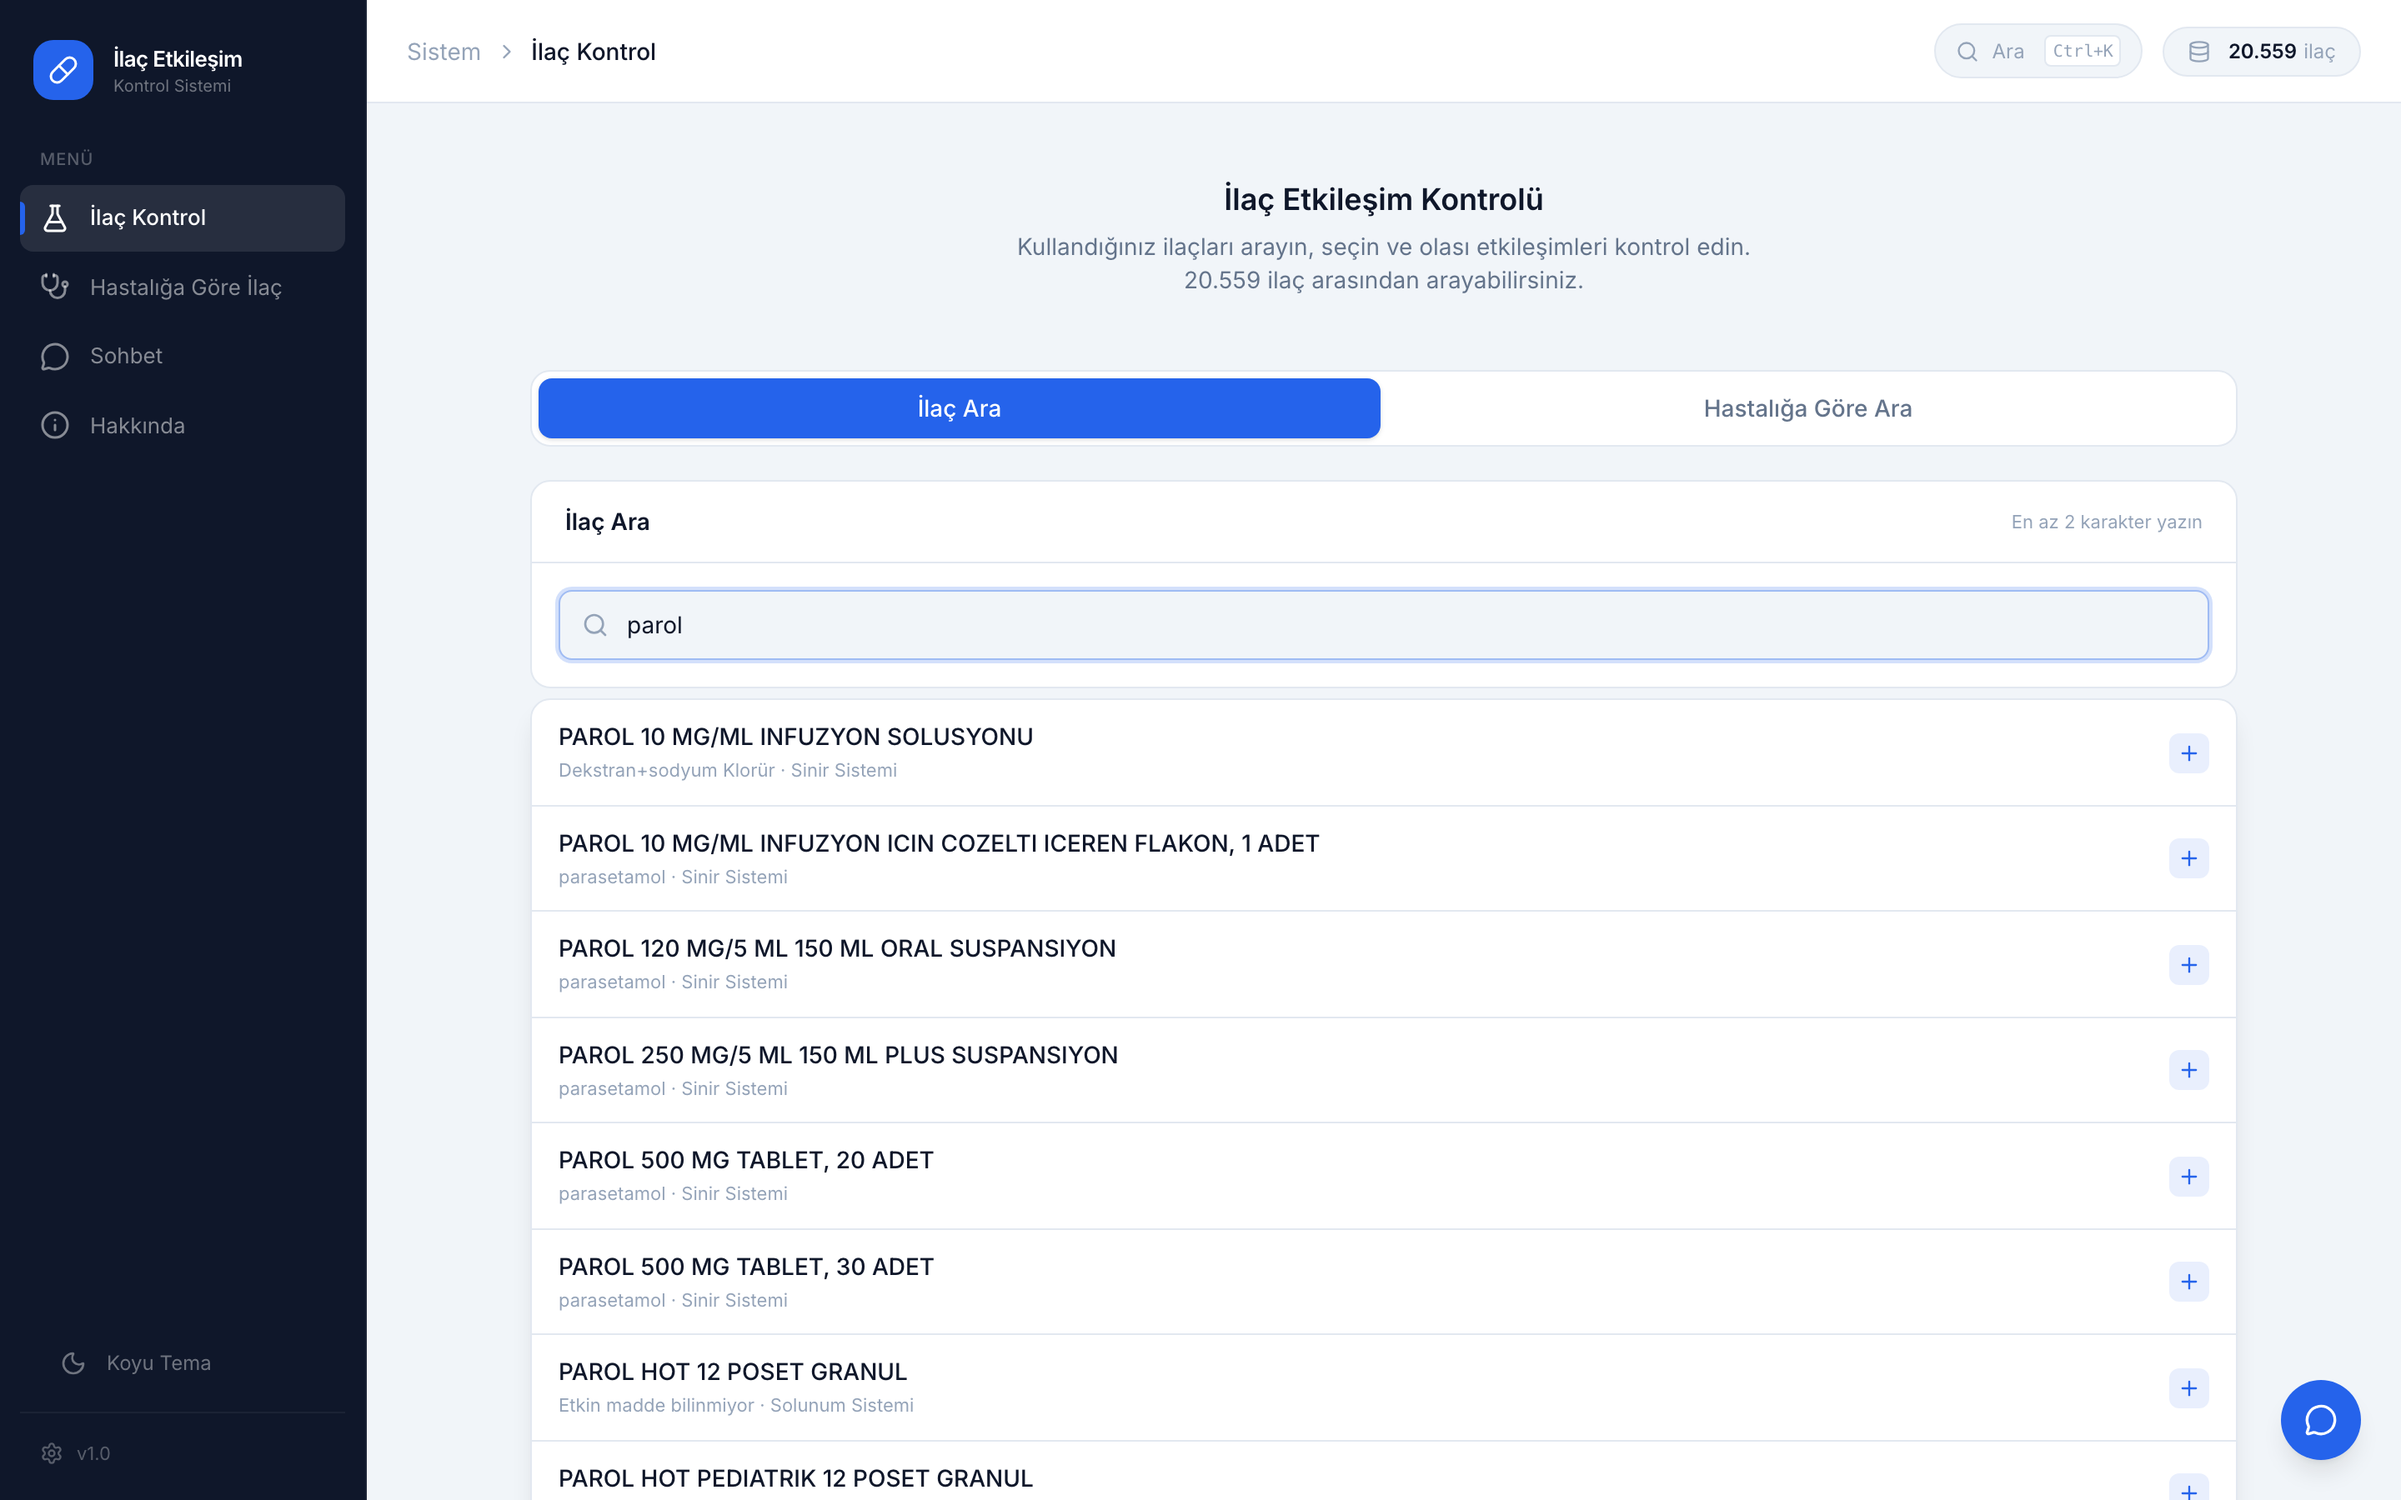
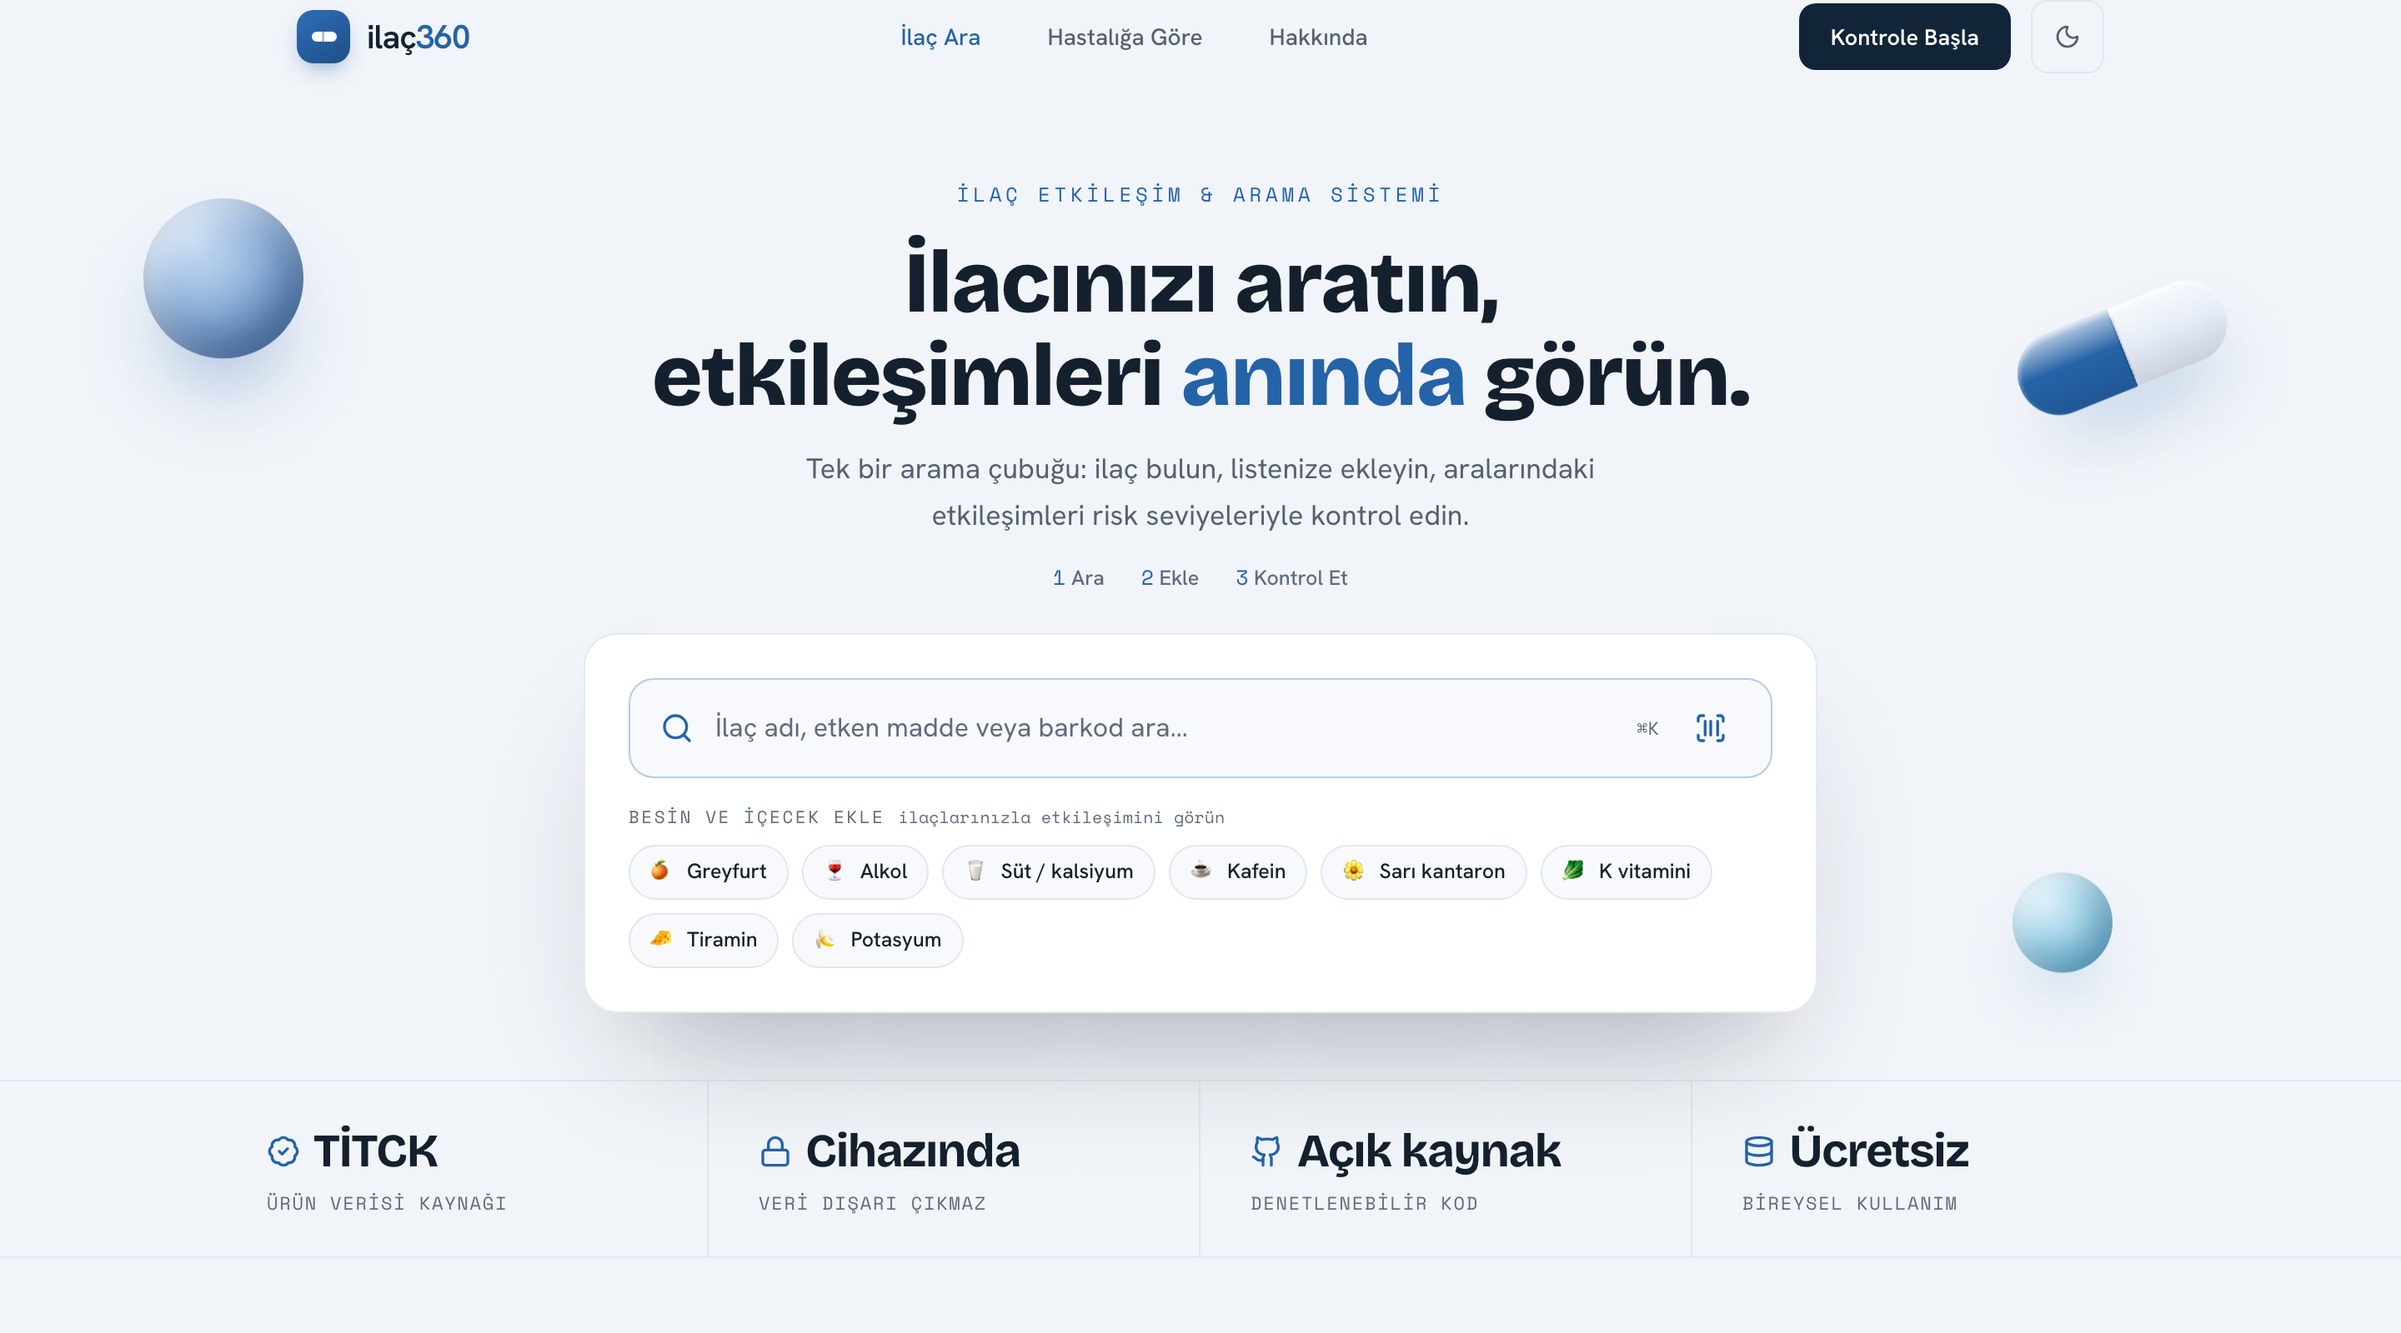
docs: vitrin README + güncel ekran görüntüsü
README sade, teknik bir dille yeniden yazıldı (etkileşim motoru, içerik-hash
veri hattı, klinik uyarılar + kişiselleştirme, PWA/barkod, CI kapıları).
Ekran görüntüsü canlı siteden güncellendi. Sayılar: 20.559 ürün, 277 kural,
228 uyarı, 29 test.

diff --git a/README.md b/README.md
@@ -1,125 +1,95 @@
-# ilac360
+# ilaç360
 
-Open-source drug interaction checker for the Turkish pharmaceutical market. Live at [ilac360.com](https://ilac360.com).
+Drug interaction checker for the Turkish pharmaceutical market. Search 20,000+ Turkish drug products, build a list of up to 10, and check them against sourced interaction rules. Everything runs in the browser: no backend, no accounts, no tracking.
 
-Turkey has more than 20,000 registered drug products, but no free tool that understands Turkish brand names well. Most existing solutions rely on US or UK naming, which often does not match what is prescribed here.
+Live at [ilac360.com](https://ilac360.com).
 
-ilac360 lets you search the Turkish market, select up to 10 drugs, and see possible interactions instantly — risk levels, active ingredients, ATC codes, and a printable report.
+![React 19](https://img.shields.io/badge/React-19-149ECA?logo=react&logoColor=white)
+![Vite 8](https://img.shields.io/badge/Vite-8-646CFF?logo=vite&logoColor=white)
+![Tailwind CSS 4](https://img.shields.io/badge/Tailwind_CSS-4-38BDF8?logo=tailwindcss&logoColor=white)
+![PWA](https://img.shields.io/badge/PWA-offline-5A0FC8?logo=pwa&logoColor=white)
+![License MIT](https://img.shields.io/badge/license-MIT-000000)
 
-The app runs entirely in the browser. No backend, no accounts, no tracking. The drug data is loaded once and queried locally.
+![ilaç360](client/public/screenshot.png)
 
-![ilac360 screenshot](client/public/screenshot.png)
+## Background
 
----
+Turkey has over 20,000 registered drug products, but the free interaction checkers most people reach for are built around US or UK drug names. Searching for a Turkish brand like *Coraspin*, *Majezik* or *Delix* usually returns nothing.
+
+ilaç360 is built directly on the Turkish market dataset. The source data is compiled at build time into static JSON, loaded once, and queried locally, so a patient's medication list never leaves the device.
 
 ## Features
 
-- Search across ~20,000 drug products in the Turkish market (by brand name, active ingredient, or barcode)
-- Condition-based search with 80+ mapped indications and prospectus fallback
-- Interaction analysis with clear risk levels (critical, high, medium, low, unknown, info) and a severity legend
-- Rule engine: ~220 sourced ingredient-pair rules + 170+ ATC-class rules, matched on salt-stripped ingredient components with a synonym table (no substring false positives); exact counts live in `data/manifest.json` after a build
-- Printable interaction report
-- Installable PWA with offline caching of previously viewed data
-- Optional cookie-free error reporting and analytics (off by default — see [docs/telemetry.md](docs/telemetry.md))
-- Dark mode
+- Search 20,559 products by brand name, active ingredient, or barcode, including camera barcode scanning
+- Interaction analysis with six risk levels (critical / high / medium / low / unknown / info) and a severity legend
+- Condition-based search over 80+ mapped indications, with a leaflet full-text fallback
+- 228 sourced clinical warnings: pregnancy, lactation, pediatric, geriatric, food, allergy, driving
+- Optional local profile (age band, sex, pregnancy, breastfeeding) that lifts the relevant warnings to the top; nothing is ever hidden
+- Per-product link to the original TİTCK leaflet
+- Printable report, dark mode, and an installable PWA that works offline after first load
 
----
+## Interaction engine
+
+Matching runs on active-ingredient *components*, not raw strings. Each product's ingredient field is normalized into canonical components: combination products are split, salt forms are stripped, and spelling variants are mapped through a synonym table. Rules then match on exact component equality.
+
+This avoids the common failure mode where a naive substring match links unrelated ingredients (for example `asetilsalisilik asit` against `salisilik asit`). The dataset ships 277 rules at ingredient-pair and ATC-class level. Every rule carries a `source`, and CI fails the build if fewer than 95% of rule ingredients resolve against real dataset components.
+
+The engine and matcher live in [`client/src/data/`](client/src/data/) (`interactionEngine.js`, `ingredientMatcher.js`), kept separate from the UI and covered by unit tests. [docs/architecture.md](docs/architecture.md) documents the resolution order.
+
+## Data pipeline
+
+[`scripts/build-data.mjs`](scripts/build-data.mjs) compiles the 55 MB source dataset into content-hashed JSON under `client/public/data/`, resolved through `manifest.json`:
+
+- `drugs-index.<hash>.json` — slim records for in-memory search
+- `drugs-desc-NN.<hash>.json` — leaflet text split across 512 hash buckets, so a drug card fetches a single ~180 KB file instead of the whole corpus
+- `interactions`, `drug-warnings`, `condition-mapping`, `ingredient-synonyms`
+
+Hashed filenames let every data file be cached immutably at the edge. The build also backfills missing ATC codes from the most common code seen for each ingredient elsewhere in the dataset.
 
 ## Stack
 
-- React 19, Vite 8, Tailwind CSS 4
-- Pure client-side: a single static bundle plus JSON data files
-- No server, no database, no API keys
+- React 19, Tailwind CSS 4, Vite 8
+- `vite-plugin-pwa` (Workbox) for offline caching
+- `barcode-detector` with a `zxing-wasm` fallback for scanning
+- No server, database, or API keys; the build output is fully static
 
----
+## Development
 
-## Data
-
-Source data lives in `data/`:
-
-| File                       | Content                                                            |
-|----------------------------|--------------------------------------------------------------------|
-| `ilaclar-dataset.json`     | ~20.000 drug records from the Turkish drug database (Git LFS)      |
-| `interactions.json`        | Curated ingredient-pair rules (~220), each with a `source` field   |
-| `ingredient-synonyms.json` | Canonical ingredient names ↔ real-world dataset spellings          |
-| `condition-mapping.json`   | Condition → drug-class mapping for indication search               |
-
-`scripts/build-data.mjs` reads these and writes content-hashed JSON into `client/public/data/` (resolved via `manifest.json`):
-
-- `drugs-index.<hash>.json` — slim records for in-memory search
-- `drugs-desc-NN.<hash>.json` — leaflet text split into 64 hash buckets (~180 KB gzip each; a drug card fetches exactly one)
-- `usage-sections.<hash>.json` — "ne için kullanılır" excerpts for free-text condition search
-- `condition-desc-matches.<hash>.json` — precomputed condition ↔ leaflet matches
-- `interactions.<hash>.json`, `condition-mapping.<hash>.json`, `ingredient-synonyms.<hash>.json`
-
-The build also backfills missing ATC codes by mapping each drug's active ingredient to the most common ATC seen elsewhere in the dataset. `npm run rules-coverage` reports which rule ingredients actually match dataset components (CI enforces ≥95%).
-
----
-
-## Local Development
-
-Requires Node.js 22 (`.nvmrc`) and [Git LFS](https://git-lfs.com) (the 55 MB source dataset `data/ilaclar-dataset.json` is stored in LFS — run `git lfs install` before cloning/pulling).
+Requires Node.js 22 (`.nvmrc`) and [Git LFS](https://git-lfs.com) — the 55 MB source dataset is stored in LFS, so run `git lfs install` before cloning.
 
 ```bash
-npm run setup                  # npm ci in client/
-npm run build:data             # generates client/public/data/* (hashed files + manifest.json)
-npm run dev                    # starts Vite dev server on :5173
-npm test                       # unit tests (Vitest)
-npm run smoke-test             # data integrity checks on generated files
+npm run setup        # install client dependencies
+npm run build:data   # generate client/public/data/* and manifest.json
+npm run dev          # Vite dev server on :5173
+npm test             # Vitest
+npm run smoke-test   # data integrity checks
 ```
 
----
+CI runs on every push ([.github/workflows/ci.yml](.github/workflows/ci.yml)): ESLint, 29 Vitest suites with V8 coverage, the data smoke test, the rule/supplement/warning linters, a 95% rule-coverage gate, and a full production build.
 
-## Production Build
+## Build and deploy
 
 ```bash
 npm run build
 ```
 
-This regenerates the data files, builds the client into `client/dist/`, and mirrors the output to `dist/` at the repo root for static deployment. `dist/` is **not** committed — it is produced locally by the build (CI also uploads it as an artifact).
+This regenerates the data, builds the client into `client/dist/`, and mirrors it to `dist/` for static hosting (`dist/` is not committed). The output drops onto any static host; a tuned `.htaccess` for Apache/LiteSpeed hosts ships inside the build, and content-hashed data files are safe to cache immutably.
 
-The contents of `dist/` can be uploaded to any static host (Netlify, Vercel, Hostinger static, GitHub Pages, plain S3 + CloudFront, etc.). No runtime is needed. A `.htaccess` with cache/gzip/SPA-rewrite rules for Apache/LiteSpeed hosts (e.g. Hostinger) ships inside the build; data files use content-hashed names resolved through `data/manifest.json`, so they can be cached immutably at the edge.
-
----
-
-## Project Layout
+## Project layout
 
 ```
-client/        React app (Vite)
-data/          Source data (drug records via Git LFS, interaction rules, synonyms, conditions)
-scripts/       Data build + smoke test scripts
-dist/          Production build output (generated; not in git)
+client/   React app: components, data engine + stores, tests
+data/     Source data: drug records (Git LFS), rules, warnings, synonyms, conditions
+scripts/  Data build, linters, coverage gates, smoke test
+docs/     Architecture, data-refresh runbook, deploy guides
 ```
-
----
-
-## Contributing
-
-Pull requests are welcome — especially for:
-
-- New interaction rules in `data/interactions.json`
-- Additional condition mappings in `data/condition-mapping.json`
-- UI fixes and accessibility improvements
-
-Please keep the rule engine and the UI separate. Interaction logic lives in [`client/src/data/interactionEngine.js`](client/src/data/interactionEngine.js).
-
-See [docs/architecture.md](docs/architecture.md) for the data flow, engine resolution order, and build pipeline; [docs/data-refresh-runbook.md](docs/data-refresh-runbook.md) for monthly data refresh; and [docs/deploy-hostinger.md](docs/deploy-hostinger.md) for publishing.
-
----
 
 ## Disclaimer
 
-This tool is for informational purposes only. It is not medical advice and not a substitute for professional clinical judgment. Always consult your doctor or pharmacist before making decisions about medications.
-
----
+For informational purposes only. Not medical advice, and not a substitute for professional clinical judgment. Always consult a doctor or pharmacist before making decisions about medications.
 
 ## License
 
-Code: [MIT](LICENSE) © 2026 Ahmet Yiğit
+Code: [MIT](LICENSE) © 2026 Ahmet Yiğit.
 
-**The MIT license covers the code only, not the bundled data.**
-`data/ilaclar-dataset.json` is derived from TİTCK (Turkish Medicines and
-Medical Devices Agency) public product data and is subject to TİTCK's own
-terms — verify them before redistributing or using the data commercially.
-See [data/LICENSE-DATA.md](data/LICENSE-DATA.md) for details, including the
-sourcing policy for interaction rules (no CC-BY-NC sources).
+The MIT license covers the code only, not the bundled data. `data/ilaclar-dataset.json` is derived from TİTCK (Turkish Medicines and Medical Devices Agency) public product data and is subject to TİTCK's own terms; verify them before redistributing or using the data commercially. See [data/LICENSE-DATA.md](data/LICENSE-DATA.md) for the full sourcing policy.
